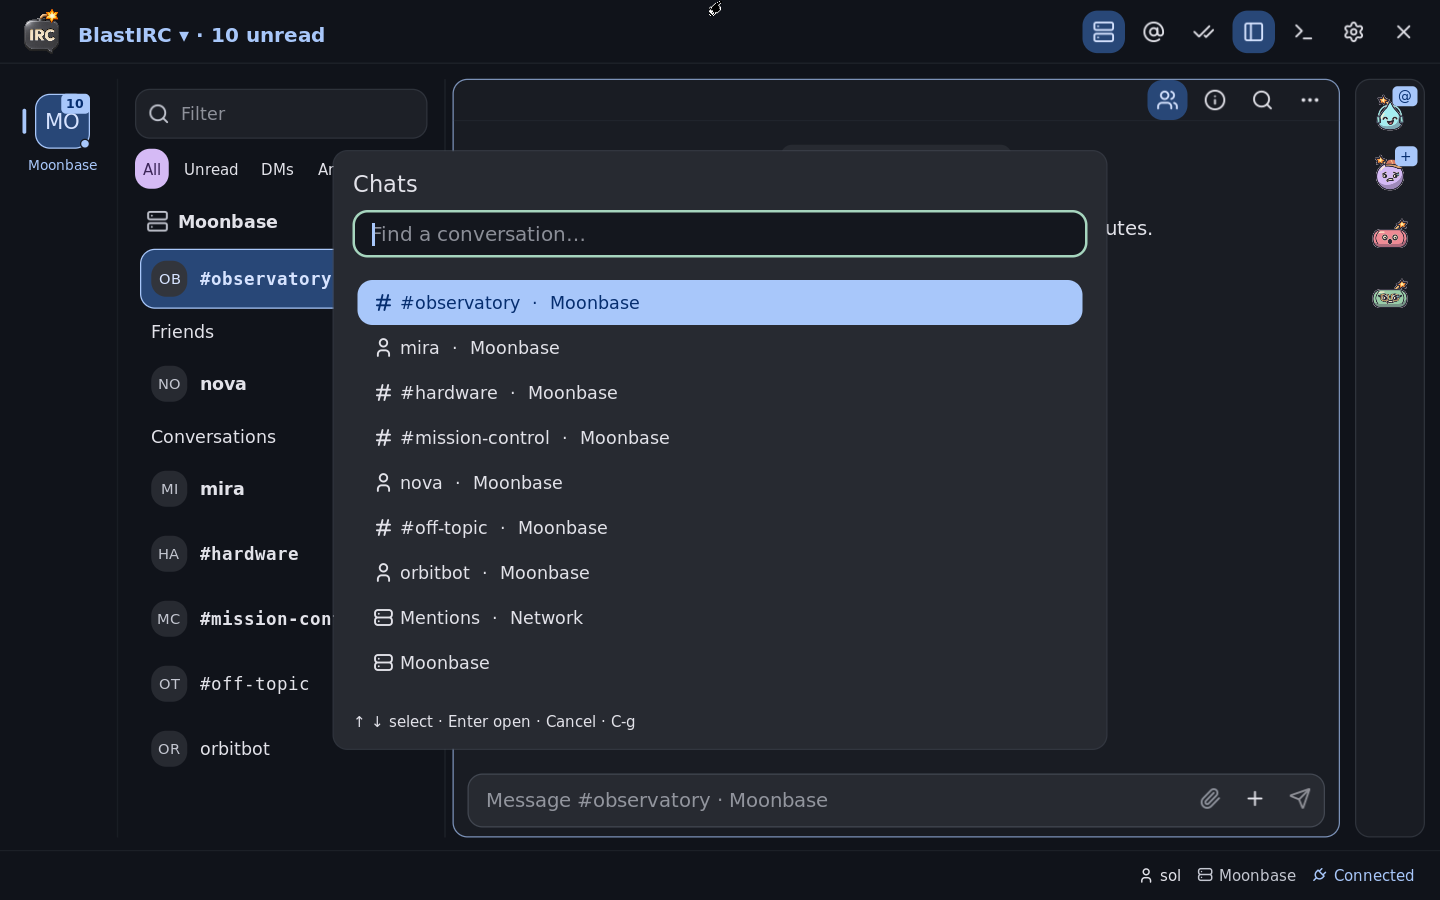
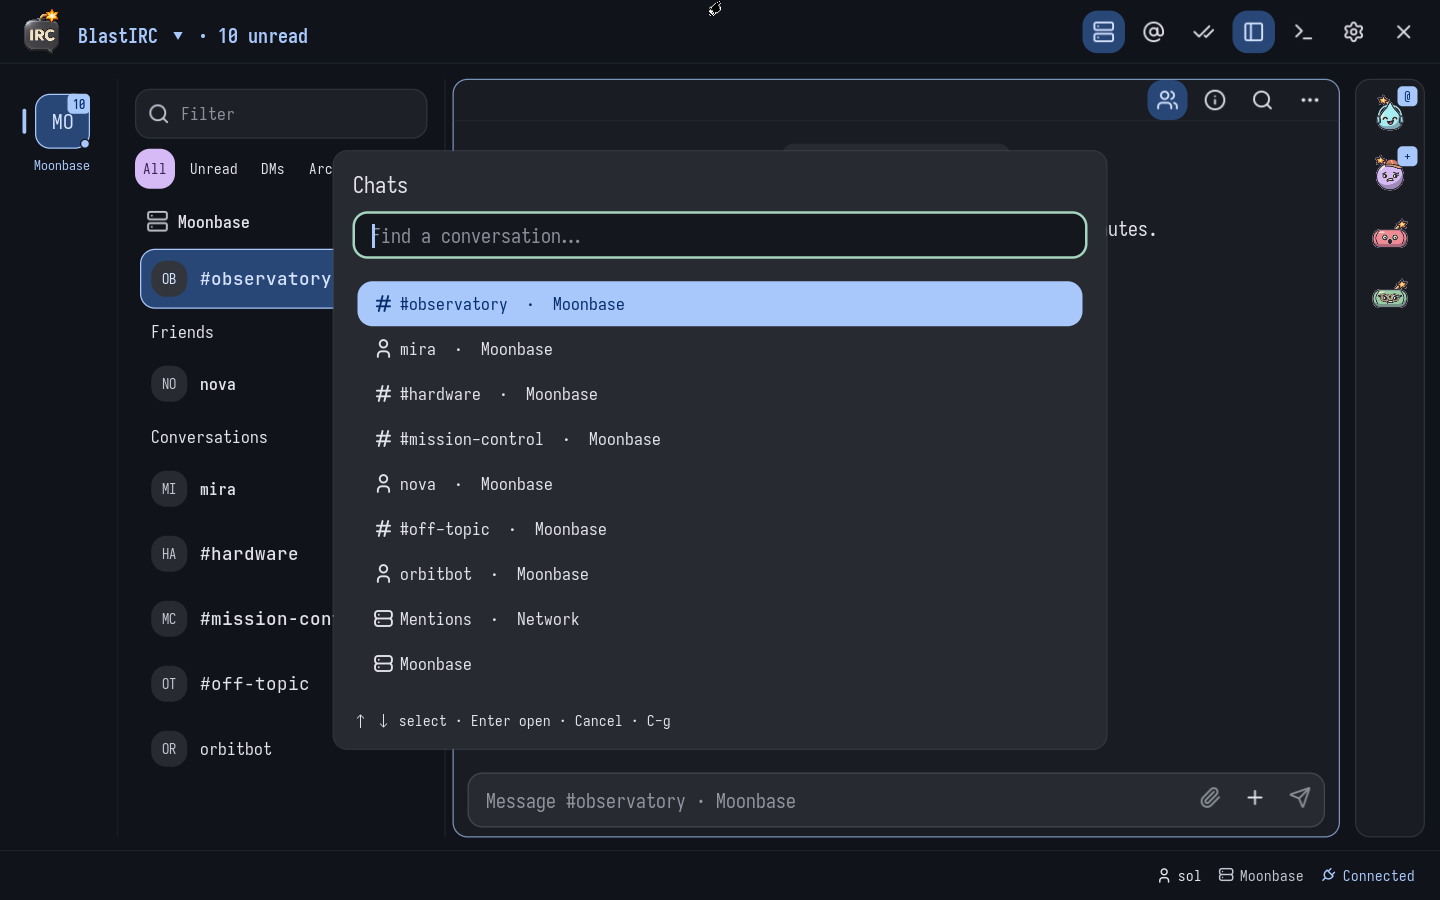
docs(readme): render screenshots with Iosevka
- Use pinned Iosevka for UI and message text in the synthetic capture fixture.
- Move screenshot regeneration instructions to the verification guide.

diff --git a/tests/capture_readme.py b/tests/capture_readme.py
@@ -120,6 +120,14 @@ def main():
                                ("XDG_STATE_HOME", "state"), ("XDG_CACHE_HOME", "cache")):
             (tmp / directory).mkdir(mode=0o700)
             env[key] = str(tmp / directory)
+        if fontconfig := env.get("BLASTIRC_SCREENSHOT_FONTCONFIG"):
+            env["FONTCONFIG_FILE"] = fontconfig
+            for variable in ("FONTCONFIG_PATH", "FONTCONFIG_SYSROOT"):
+                env.pop(variable, None)
+        font = subprocess.check_output(["fc-match", "-f", "%{family}", "Iosevka"],
+                                       env=env, text=True, timeout=5)
+        if "Iosevka" not in font.split(","):
+            parser.error("Iosevka is required; run the capture with nix develop")
         config = tmp / "config/blastirc"
         config.mkdir(mode=0o700)
         server = cleanup.enter_context(socketserver.ThreadingTCPServer(("127.0.0.1", 0), DemoIRC))
@@ -148,6 +156,8 @@ channels = {json.dumps([target for target in CHATS if target.startswith('#')])}
 [appearance]
 scale = 1.0
 message_scale = 1.05
+ui_font = "Iosevka"
+message_font = "Iosevka"
 avatar_style = "sprite"
 reduced_motion = true
 theme_source = "builtin"

diff --git a/UI-DESIGN.md b/UI-DESIGN.md
@@ -359,6 +359,8 @@ Default Meson and Nix builds compile only the app, not the regression executable
 
 Use `tests/gui_smoke.py` against its private IRC servers and owned headless Sway compositor for actual native interaction, real-wire routing, SQLite/draft persistence, sidebar modes/resizing, per-channel message styles, and restart. `tests/dpi_smoke.py` exercises one native window through compositor density changes. Read each script's current help for scopes; obsolete split/dock/drag probes are not acceptance for this layout.
 
+After building the native client, regenerate the README screenshots with `nix develop -c python3 tests/capture_readme.py`. The capture uses Iosevka, fictional conversations, and a private headless Wayland session.
+
 Focused targets include `application`, `network`, `storage`, `effects_envelopes`, `upload`, `clipboard_check`, `preview`, `media_player`, `native_settings_check`, `native_composer_check`, `native_transcript_check`, and `native_shell_check`. Use `tests/interface_refresh_smoke.py` for its isolated native refresh fixture; these are runnable targets/workflows, not assertions of completed checks. Review actual captures for typing stability, fool reveal/privacy, wrapping/chips, unread/rail actions, upload review/recovery, slash ghosts/origin replies, half-viewport paging, and viewer/player lifecycle.
 
 Inspect actual captures for wide and minimum windows, panel collapse, light/dark semantic palettes, readable bubble/IRC modes, native keyboard focus, and enabled/disabled transparency. Client BMP capture drops alpha and cannot establish desktop transparency; use compositor captures to verify it. Tests and package builds alone do not establish visual correctness. Report only exercised scenarios, with remaining limits explicit; old workspace evidence does not prove this redesign.

diff --git a/README.md b/README.md
@@ -43,6 +43,4 @@ For soju, choose **Add soju account** in **Settings → Networks**, enter the bo
 
 ![Chats picker listing channels and direct messages](assets/screenshot-chats.png)
 
-All screenshots use fictional conversations. After [building the native client](UI-DESIGN.md#verification-contract), regenerate them with `nix develop -c python3 tests/capture_readme.py`.
-
 [MIT license](LICENSE) · [Development and design](UI-DESIGN.md)
